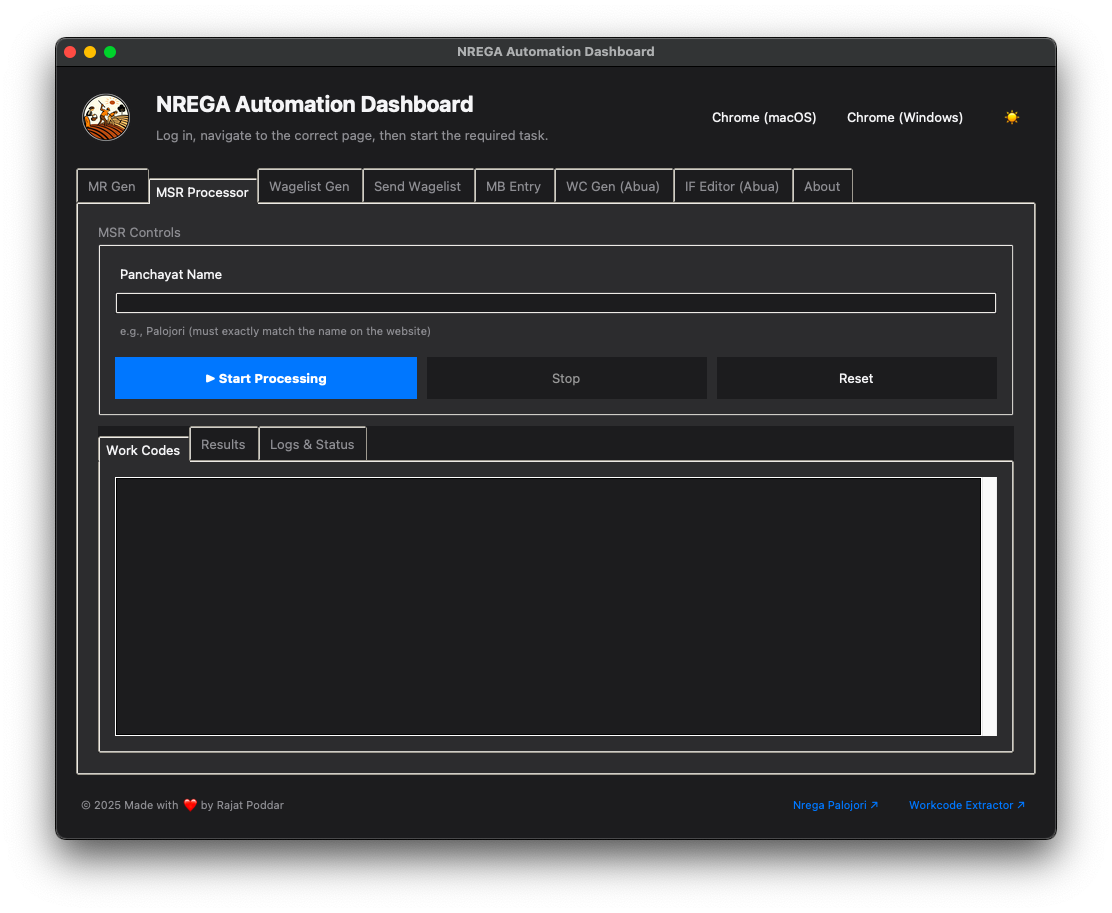
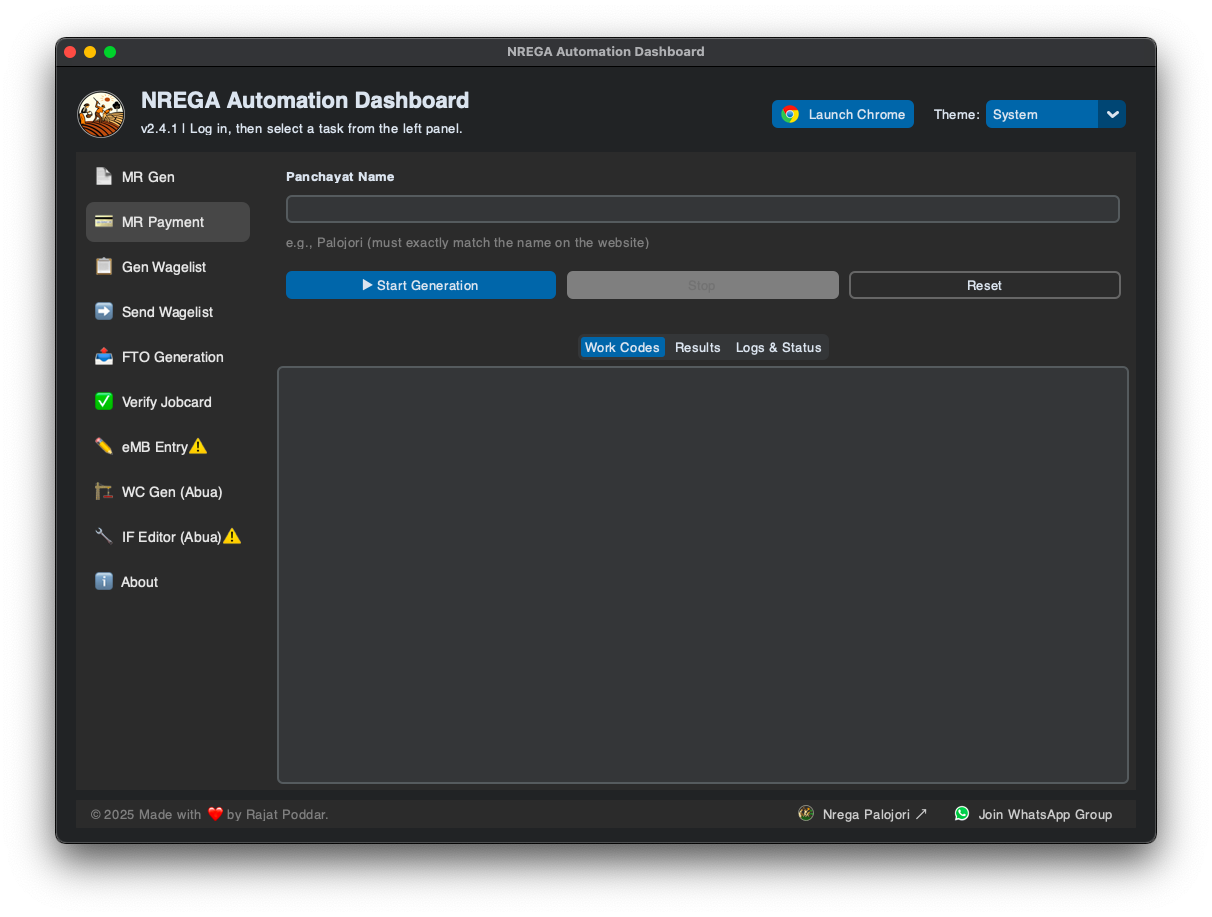
update 2.4.1

diff --git a/web/index.html b/web/index.html
@@ -4,14 +4,14 @@
     <meta charset="UTF-8">
     <meta name="viewport" content="width=device-width, initial-scale=1.0">
     
-    <title>NREGA Automation Dashboard | v2.3.1 | Automate NREGA Tasks</title>
-    <meta name="description" content="Automate your NREGA tasks with the NREGA Automation Dashboard v2.3.1. Featuring new MR filling, Jobcard verification, and FTO Generation tools. Download for a free 30-day trial.">
+    <title>NREGA Automation Dashboard | v2.4.1 | Automate NREGA Tasks</title>
+    <meta name="description" content="Automate your NREGA tasks with the NREGA Automation Dashboard v2.4.1. Featuring new MR filling, Jobcard verification, and FTO Generation tools. Download for a free 30-day trial.">
     <meta name="keywords" content="NREGA, MGNREGA, automation, FTO Generation, dashboard, MR Fill, Jobcard Verification, MSR processor, wagelist, workcode generator, Palojori, Jharkhand, software, donation">
     <meta name="author" content="Rajat Poddar">
 
     <link rel="icon" href="favicon.ico" type="image/x-icon">
 
-    <meta property="og:title" content="NREGA Automation Dashboard v2.3.1">
+    <meta property="og:title" content="NREGA Automation Dashboard v2.4.1">
     <meta property="og:description" content="The ultimate tool to save time and automate your tedious NREGA data entry tasks, now with more features.">
     <meta property="og:image" content="https://nrega-dashboard.palojori.in/og-logo.png">
     <meta property="og:url" content="https://nrega-dashboard.palojori.in/">
@@ -81,7 +81,7 @@
                 <div class="container mx-auto px-4 sm:px-6 py-3 text-center text-white">
                     <p>
                         <span class="font-bold bg-white text-blue-600 rounded-full px-2 py-0.5 text-xs mr-2">NEW</span>
-                        <strong>Version 2.3.1 is here!</strong> Featuring new automation tools, bug fixes, and more.
+                        <strong>Version 2.4.1 is here!</strong> Featuring new automation tools, bug fixes, and more.
                         <a href="#downloads" class="underline ml-2 hover:text-blue-200">Download Now &rarr;</a>
                     </p>
                 </div>
@@ -97,8 +97,8 @@
                 <div id="downloads" class="mt-10">
                     <p class="text-gray-600 mb-4">Download the app and start your 30-day free trial instantly.</p>
                     <div class="flex flex-col sm:flex-row justify-center items-center space-y-4 sm:space-y-0 sm:space-x-4">
-                        <a href="https://github.com/rajatpoddar/Nrega_Automation/releases/download/v2.3.1/NREGA-Dashboard-v2.3.1.exe" class="bg-blue-600 text-white font-bold px-6 py-3 rounded-lg hover:bg-blue-700 transition-colors text-lg w-full sm:w-auto">Download for Windows</a>
-                        <a href="https://github.com/rajatpoddar/Nrega_Automation/releases/download/v2.3.1/NREGA-Dashboard-2.3.1.dmg" class="bg-gray-700 text-white font-bold px-6 py-3 rounded-lg hover:bg-gray-800 transition-colors text-lg w-full sm:w-auto">Download for macOS</a>
+                        <a href="https://nrega-dashboard.palojori.in/updates/NREGA-Dashboard-v2.4.1-Setup.exe" class="bg-blue-600 text-white font-bold px-6 py-3 rounded-lg hover:bg-blue-700 transition-colors text-lg w-full sm:w-auto">Download for Windows</a>
+                        <a href="https://nrega-dashboard.palojori.in/updates/NREGA-Dashboard-v2.4.1.dmg" class="bg-gray-700 text-white font-bold px-6 py-3 rounded-lg hover:bg-gray-800 transition-colors text-lg w-full sm:w-auto">Download for macOS</a>
                     </div>
                 </div>
             </main>

diff --git a/main_app.py b/main_app.py
@@ -1,4 +1,4 @@
-# main_app.py (Final Production Version)
+# main_app.py (Corrected Order)
 import tkinter
 from tkinter import messagebox, filedialog
 import customtkinter as ctk
@@ -22,6 +22,25 @@ from tabs import msr_tab, wagelist_gen_tab, wagelist_send_tab, wc_gen_tab, mb_en
 if config.OS_SYSTEM == "Windows":
     import ctypes
 
+# --- HELPER FUNCTIONS (MOVED HERE) ---
+def resource_path(relative_path):
+    try:
+        base_path = sys._MEIPASS
+    except Exception:
+        base_path = os.path.abspath(".")
+    return os.path.join(base_path, relative_path)
+
+def get_data_path(filename):
+    app_name = "NREGA-Dashboard"
+    app_author = "PoddarSolutions"
+    data_dir = user_data_dir(app_name, app_author)
+    os.makedirs(data_dir, exist_ok=True)
+    return os.path.join(data_dir, filename)
+
+def get_user_downloads_path():
+    return os.path.join(Path.home(), "Downloads")
+# ------------------------------------
+
 # --- Load Environment Variables ---
 load_dotenv()
 
@@ -37,29 +56,12 @@ if SENTRY_DSN:
 
 # --- THEME AND APPEARANCE ---
 ctk.set_appearance_mode("System")
-ctk.set_default_color_theme("theme.json")
-
-
-def get_data_path(filename):
-    app_name = "NREGA-Dashboard"
-    app_author = "PoddarSolutions"
-    data_dir = user_data_dir(app_name, app_author)
-    os.makedirs(data_dir, exist_ok=True)
-    return os.path.join(data_dir, filename)
-
-def get_user_downloads_path():
-    return os.path.join(Path.home(), "Downloads")
-
-def resource_path(relative_path):
-    try:
-        base_path = sys._MEIPASS
-    except Exception:
-        base_path = os.path.abspath(".")
-    return os.path.join(base_path, relative_path)
+ctk.set_default_color_theme(resource_path("theme.json"))
 
 class NregaDashboard(ctk.CTk):
     def __init__(self):
         super().__init__()
+        self.withdraw() # Hide window initially to prevent flicker
         self.title("NREGA Automation Dashboard")
         self.geometry("1100x800")
         self.minsize(1000, 700)
@@ -89,24 +91,39 @@ class NregaDashboard(ctk.CTk):
     def start_app(self):
         """Builds the UI first, then initiates the license check flow."""
         self.build_main_ui()
+        # The 'perform_license_check_flow' will now handle everything else in order.
         self.after(200, self.perform_license_check_flow)
-        self.check_for_updates_background() # Start background update check
 
     def perform_license_check_flow(self):
         """The core logic for checking a license and locking/unlocking the app."""
         self.is_licensed = self.check_license()
 
         if self.is_licensed:
-            self.check_expiry_and_notify()
+            is_expiring = self.check_expiry_and_notify()
             self._unlock_app()
-            self.after(100, self._update_about_tab_info) # Update UI after check
+            self.after(100, self._update_about_tab_info)
+            
+            if is_expiring:
+                self.show_frame("About")
+            else:
+                self.show_frame("MR Gen")
+            
+            self.check_for_updates_background()
+            self.deiconify()
+
         else:
             self._lock_app_to_about_tab()
             if self.show_activation_window():
                 self.is_licensed = True
                 self.check_expiry_and_notify()
                 self._unlock_app()
-                self.after(100, self._update_about_tab_info) # Update UI after activation
+                self.after(100, self._update_about_tab_info)
+                self.show_frame("MR Gen")
+                
+                # --- THIS LINE WAS MISSING ---
+                self.check_for_updates_background()
+                
+                self.deiconify()
             else:
                 self.destroy()
 
@@ -196,8 +213,7 @@ class NregaDashboard(ctk.CTk):
         self._create_main_layout()
         self._create_footer()
         
-        initial_tab = "About" if self.open_on_about_tab else "MR Gen"
-        self.after(100, lambda: self.show_frame(initial_tab))
+        # REMOVE the initial_tab logic from here
         self.protocol("WM_DELETE_WINDOW", self.on_closing)
 
     def _create_header(self):
@@ -428,7 +444,7 @@ class NregaDashboard(ctk.CTk):
 
     def check_expiry_and_notify(self):
         expires_at_str = self.license_info.get('expires_at')
-        if not expires_at_str: return
+        if not expires_at_str: return False  # Add this line
         try:
             expiry_date = datetime.fromisoformat(expires_at_str.split('T')[0]).date()
             days_left = (expiry_date - datetime.now().date()).days
@@ -436,9 +452,11 @@ class NregaDashboard(ctk.CTk):
                 message = f"Your license expires today." if days_left == 0 else f"Your license will expire in {days_left} day{'s' if days_left > 1 else ''}."
                 messagebox.showwarning("License Expiring Soon", f"{message}\nPlease renew your subscription.")
                 self.open_on_about_tab = True
+                return True # Add this line
         except (ValueError, TypeError) as e:
             print(f"Could not parse expiry date: {expires_at_str}. Error: {e}")
             if SENTRY_DSN: sentry_sdk.capture_exception(e)
+        return False # Add this line
 
     def start_automation_thread(self, key, target_func, args=()):
         if self.automation_threads.get(key) and self.automation_threads[key].is_alive():
@@ -532,7 +550,7 @@ class NregaDashboard(ctk.CTk):
                         fg_color=ctk.ThemeManager.theme["CTkButton"]["fg_color"],
                         command=lambda: about_tab.download_and_install_update(self, about_widgets, info['url'], info['version'])
                     )
-                    self.show_update_prompt(info['version'])
+                    # self.show_update_prompt(info['version'])
                 elif info['status'] == 'updated':
                     about_widgets['latest_version_label'].configure(text=f"Latest Version: {config.APP_VERSION}")
                     about_widgets['update_button'].configure(text="You are up to date", state="disabled")

diff --git a/config.py b/config.py
@@ -3,7 +3,7 @@
 
 # --- Application Version Info ---
 APP_NAME = "NREGA-Dashboard"
-APP_VERSION = "2.4.0" # Version updated for theme refinement
+APP_VERSION = "2.4.1" # Version updated for theme refinement
 
 # --- Platform & UI Configuration ---
 import platform
